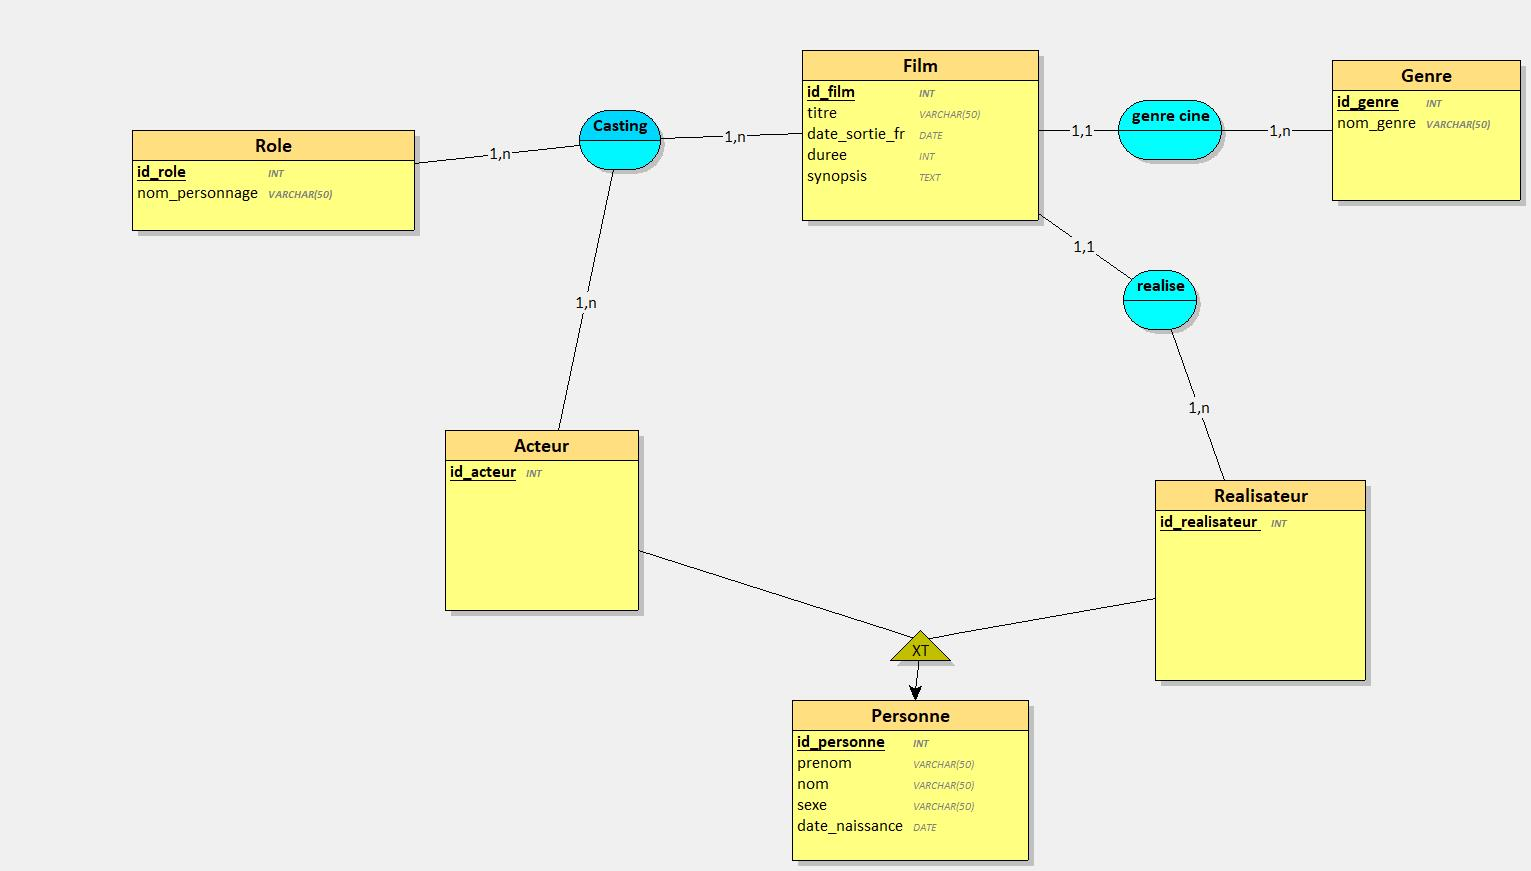
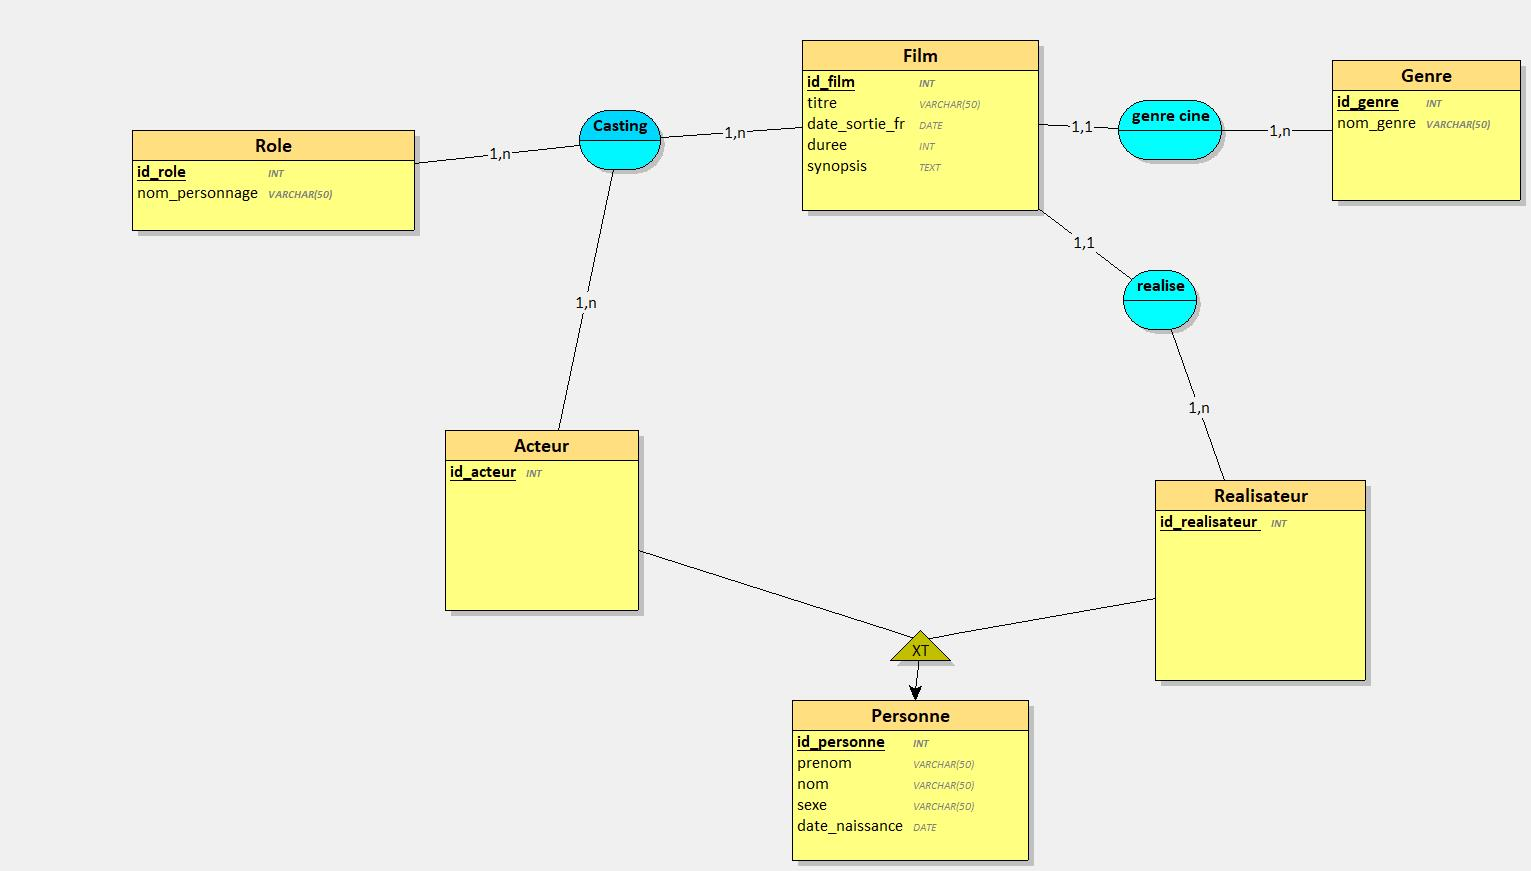
Add MCD and MLD image to index.php

Changed region(s): [[0.5219, 0.031, 0.7061, 0.279]]

diff --git a/Exo_POO_PHP_Cinema/index.php b/Exo_POO_PHP_Cinema/index.php
@@ -107,3 +107,9 @@ spl_autoload_register(function($class){
     echo"<h2>Lister les films par genre (exemple : le genre SF est associé à X films : Star Wars, Blade Runner, ...)</h2>";
     echo"<h2>Lister la filmographie d'un acteur (dans quels films a-t-il joué ?)</h2>";
     echo"<h2>Lister la filmographie d'un réalisateur (quels sont les films qu'a réalisé ce réalisateur ?)</h2>";
+
+  ?>
+  <h2>Modèle Conceptuel de Données (MCD) et Modèle Logique de Données (MLD)</h2>
+  <img src="MCD_MLD.jpg" width="100%" alt="MCD et MLD" title="Modèle Conceptuel de Données (MCD) et Modèle Logique de Données (MLD)">
+  </body>
+</html>
